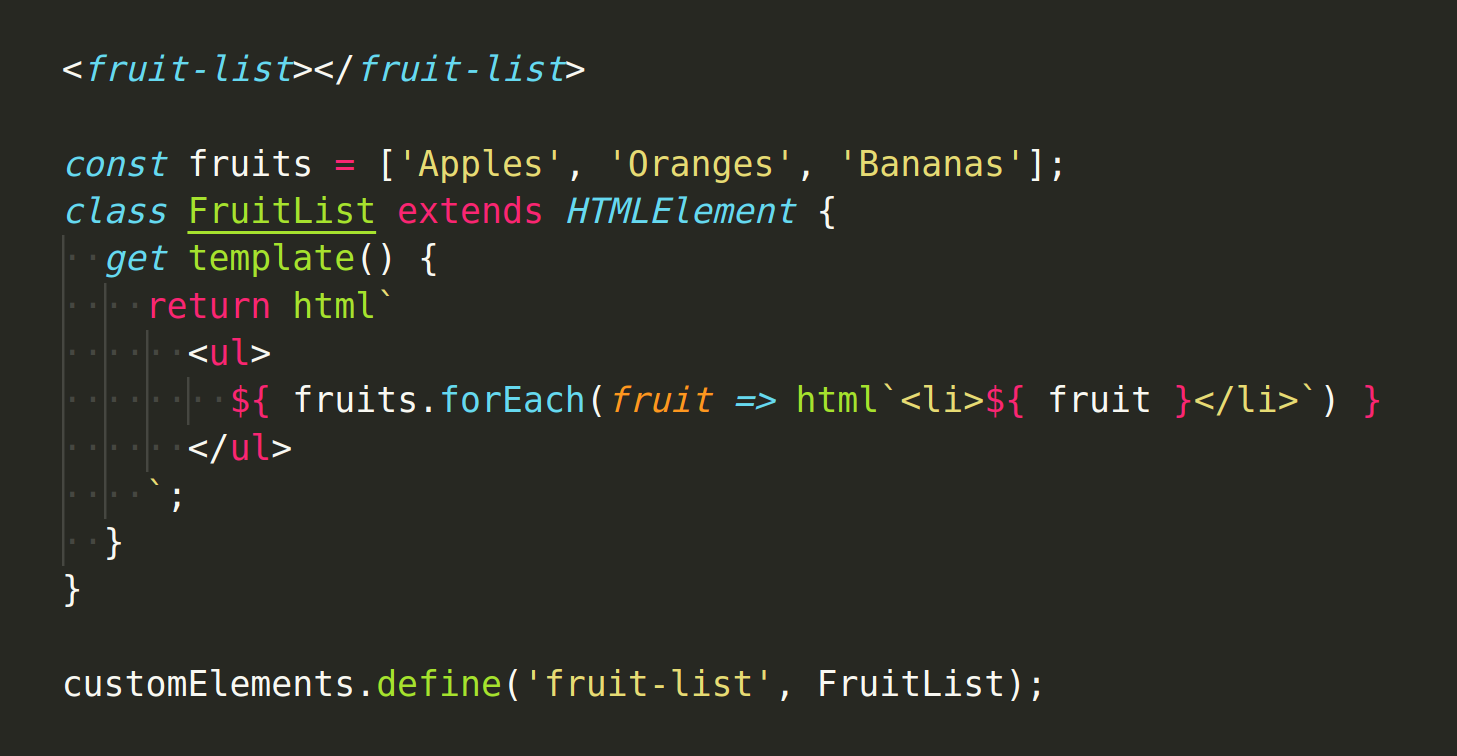
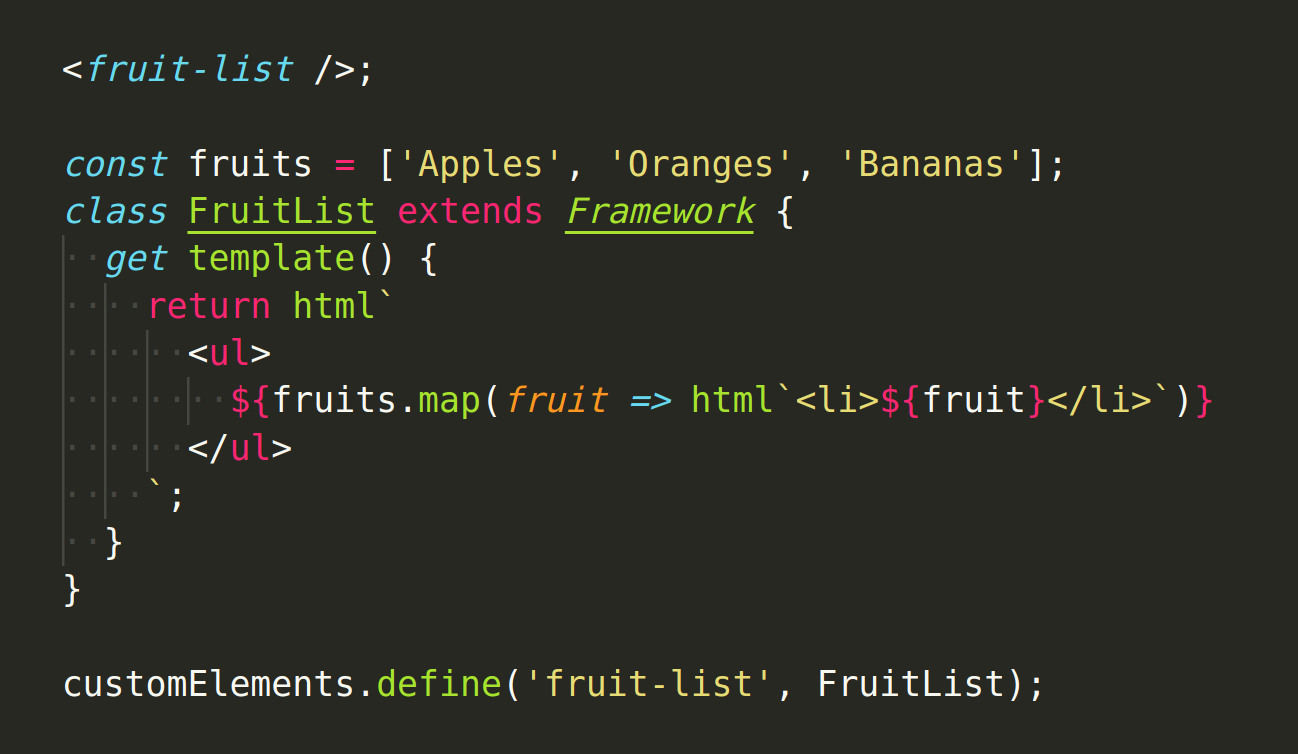
Done?

diff --git a/index.html b/index.html
@@ -8,11 +8,8 @@
 <!-- Modules are always nonblocking, and they load after regular scripts, so we can put them first -->
 <script type="module" src="/index.js"></script>
 
-<!-- Load polyfills for IE11 -->
-<script nomodule src="https://cdnjs.cloudflare.com/ajax/libs/babel-polyfill/6.26.0/polyfill.min.js"></script>
-
 <!-- Webcomponents Polyfill (no-op on browsers that have support) -->
-<script src="/node_modules/@webcomponents/webcomponentsjs/webcomponents-loader.js"></script>
+<script src="/@webcomponents/webcomponentsjs/webcomponents-loader.js"></script>
 
 <link rel="stylesheet" href="https://fonts.googleapis.com/css?family=Roboto:400,500,700">
 
@@ -247,11 +244,7 @@
     <h2 font-size="122px" center line-height="1.2" color="white" style="margin-bottom:100px">Lets put it together</h2>
   </slidem-slide>
 
-  <slidem-codepen-slide zoom-out background="--codepen" pen="XYxqdw" tabs="js,result"></slidem-codepen-slide>
-  <slidem-codepen-slide slide-in zoom-out background="--codepen" pen="NzOMdM" tabs="js,result"></slidem-codepen-slide>
-  <slidem-codepen-slide slide-in zoom-out background="--codepen" pen="yERjGd" tabs="js,result"></slidem-codepen-slide>
-  <slidem-codepen-slide slide-in background="--codepen" pen="qKJKwK" tabs="js,result"></slidem-codepen-slide>
-
+  <slidem-codepen-slide background="--codepen" pen="pKQaPz" tabs="js,result"></slidem-codepen-slide>
 
   <slidem-slide slide-in slide-out center background="white">
     <div center>
@@ -264,6 +257,22 @@
 
   <slidem-slide slide-in slide-out center background="--blue">
     <h2 font-size="122px" center line-height="1.2" color="white" style="margin-bottom:100px">Is this useful?</h2>
+  </slidem-slide>
+
+  <slidem-slide slide-in slide-out center background="--blue">
+    <h2 font-size="122px" center line-height="1.2" color="white">Production Projects</h2>
+    <p font-size="92px" reveal center line-height="1.4" color="white">
+      <a href="https://daiwallet.ruph.in">Daiwallet</a>
+    </p>
+    <p font-size="92px" reveal center line-height="1.4" color="white">
+      <a href="https://slidem.ruph.in">Slidem</a>
+    </p>
+    <p font-size="92px" reveal center line-height="1.4" color="white">
+      <a href="https://overwebs.ruph.in">Overwebs</a>
+    </p>
+    <p font-size="92px" reveal center line-height="1.4" color="white">
+      <a href="https://rik.chipta.com/en/tickets/event/3015/">Chipta Ticket System</a>
+    </p>
   </slidem-slide>
 
   <slidem-slide slide-in slide-out center background="--blue">

diff --git a/frameworks/native.js b/frameworks/native.js
@@ -1,16 +1,14 @@
-
-<fruit-list></fruit-list>
+<fruit-list />;
 
 const fruits = ['Apples', 'Oranges', 'Bananas'];
-class FruitList extends HTMLElement {
+class FruitList extends Framework {
   get template() {
     return html`
       <ul>
-        ${ fruits.forEach(fruit => html`<li>${ fruit }</li>`) }
+        ${fruits.map(fruit => html`<li>${fruit}</li>`)}
       </ul>
     `;
   }
 }
 
 customElements.define('fruit-list', FruitList);
-

diff --git a/browsersync.config.js b/browsersync.config.js
@@ -13,7 +13,7 @@ module.exports = {
     }
   },
   server: {
-    baseDir: ['.']
+    baseDir: ['.', 'node_modules']
   },
   files: ['*.html', '*.js', 'image/*']
 };
